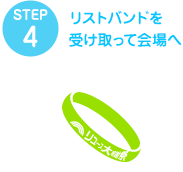
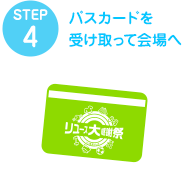
リユースマーケットのLPの更新

Changed region(s): [[0.2186, 0.4651, 0.8197, 0.9593], [0.3825, 0.0581, 0.9016, 0.1453]]

diff --git a/public/reuse-market/20140928-kansyasai/index.html b/public/reuse-market/20140928-kansyasai/index.html
@@ -129,7 +129,7 @@
 </tr>
 <tr>
 <th scope="row">入場料</th>
-<td>事前登録 500円／当日登録 600円<br>
+<td>入場チケット 500円（未就学児は入場無料）<br>
 チケット情報の詳細は<a href="#ticketSec">こちら</a></td>
 </tr>
 <tr>
@@ -205,7 +205,7 @@ PRブースや体験コーナーをお楽しみいただけます！</p>
 </section>
 <section class="structureBlock">
 <h1 class="subHd">特別企画</h1>
-<p>有名スポーツ選手によるキッズコーナーなど現在企画中！</p>
+<p>お子様に楽しく遊んでいただけるキッズコーナーを用意します。</p>
 </section>
 <!--<section class="structureBlock">
 <h1 class="subHd">協賛企業一覧</h1>
@@ -234,7 +234,7 @@ PRブースや体験コーナーをお楽しみいただけます！</p>
 <tbody>
 <tr>
 <th scope="row">入場料</th>
-<td class="tC"><em class="amo">事前登録 <span>500</span>円</em>／当日登録 600円</td>
+<td class="tC"><em class="amo"> <span>500</span>円</em>（未就学児は無料です。）</td>
 </tr>
 </tbody>
 </table>
@@ -247,7 +247,7 @@ PRブースや体験コーナーをお楽しみいただけます！</p>
 <li><img src="/reuse-market/20140928-kansyasai/img/index_img_ticket_pre01.png" alt="STEP1 必要事項を入力" width="223" height="172"></li>
 <li><img src="/reuse-market/20140928-kansyasai/img/index_img_ticket_pre02.png" alt="STEP2 発行されたバーコードを持って会場へ" width="238" height="172"></li>
 <li><img src="/reuse-market/20140928-kansyasai/img/index_img_ticket_pre03.png" alt="STEP3 発行されたバーコードを係員に見せてください" width="244" height="172"></li>
-<li><img src="/reuse-market/20140928-kansyasai/img/index_img_ticket_pre04.png" alt="STEP4 リストバンドを受け取って会場へ" width="183" height="172"></li>
+<li><img src="/reuse-market/20140928-kansyasai/img/index_img_ticket_pre04.png" alt="STEP4 パスカードを受け取って会場へ" width="183" height="172"></li>
 </ul>
 </section>
 
@@ -259,7 +259,7 @@ PRブースや体験コーナーをお楽しみいただけます！</p>
 <li><img src="/reuse-market/20140928-kansyasai/img/index_img_ticket_today01.png" alt="STEP1 登録用紙に必要事項を記入" width="223" height="172"></li>
 <li><img src="/reuse-market/20140928-kansyasai/img/index_img_ticket_today02.png" alt="STEP2 受付スタッフへ登録用紙を提出" width="238" height="172"></li>
 <li><img src="/reuse-market/20140928-kansyasai/img/index_img_ticket_today03.png" alt="STEP3 発行されたバーコードを係員に見せてください" width="244" height="172"></li>
-<li><img src="/reuse-market/20140928-kansyasai/img/index_img_ticket_today04.png" alt="STEP4 リストバンドを受け取って会場へ" width="183" height="172"></li>
+<li><img src="/reuse-market/20140928-kansyasai/img/index_img_ticket_today04.png" alt="STEP4 パスカードを受け取って会場へ" width="183" height="172"></li>
 </ul>
 </section>
 <!-- / .secBox --></div>
